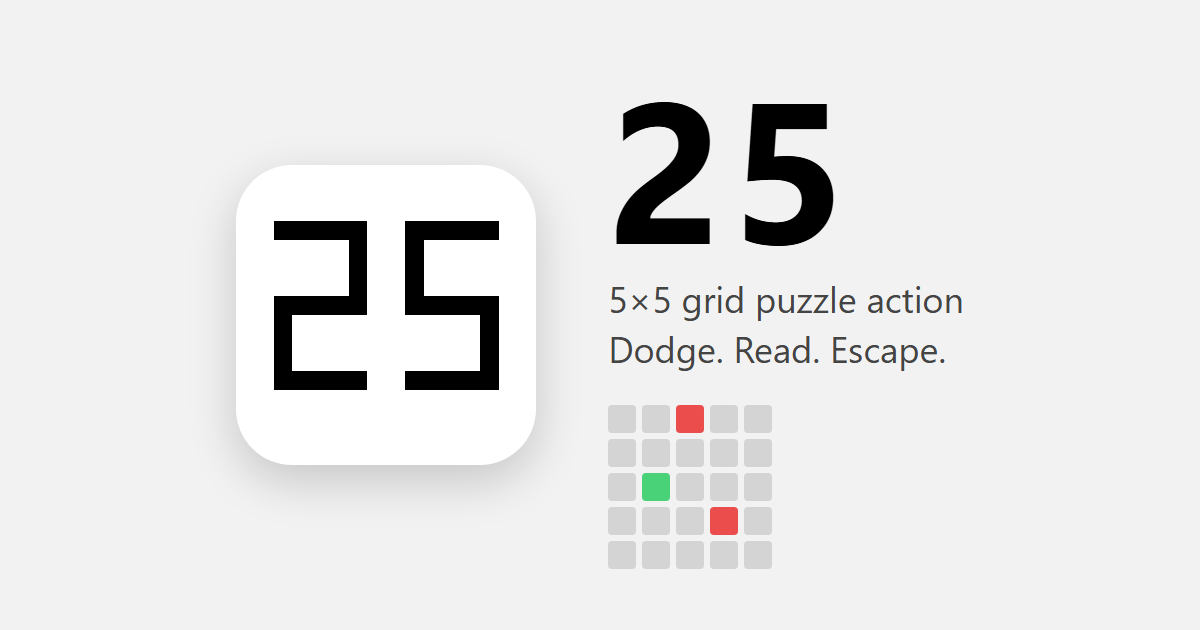
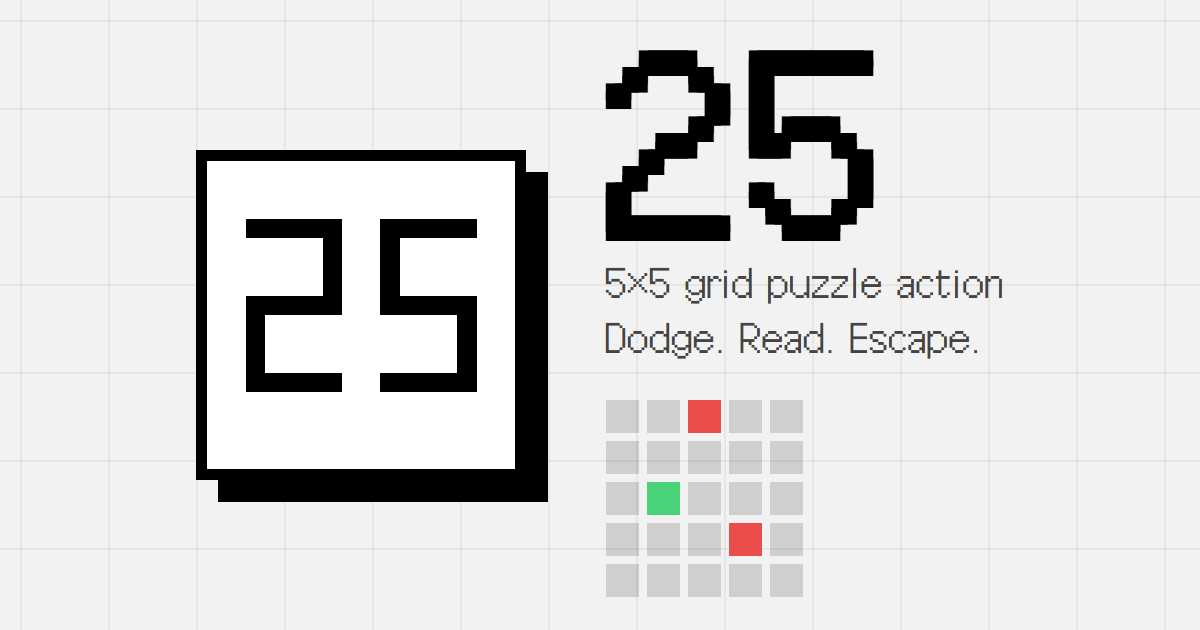
feat: 25 랜딩/OG 이미지에 Galmuri 픽셀 글꼴 및 픽셀 스타일 적용

diff --git a/25/index.html b/25/index.html
@@ -26,71 +26,91 @@
 <meta name="twitter:description" content="A tense 5x5 grid puzzle-action game. Dodge enemies, read the lasers and slip out of the grid.">
 <meta name="twitter:image" content="https://ybs1164.github.io/assets/25/og.png">
 
+<link rel="preload" href="/assets/25/fonts/Galmuri11-latin.woff" as="font" type="font/woff" crossorigin>
 <style>
+  /* Galmuri11 (SIL OFL), Latin subset. Pixel font: keep sizes at multiples of 11px
+     and never synthesize bold, or the pixels get smeared. */
+  @font-face {
+    font-family: "Galmuri11";
+    src: url("/assets/25/fonts/Galmuri11-latin.woff") format("woff");
+    font-display: swap;
+  }
   :root {
     color-scheme: light dark;
     --bg: #f2f2f2;
     --fg: #000;
     --muted: #555;
     --card: #fff;
-    --line: rgba(0, 0, 0, .12);
+    --line: #000;
     --btn-bg: #000;
     --btn-fg: #f2f2f2;
+    --shadow: #000;
+    --px: 4px;
   }
   @media (prefers-color-scheme: dark) {
     :root {
       --bg: #4d4d4d;
       --fg: #f2f2f2;
       --muted: #ccc;
-      --card: #5c5c5c;
-      --line: rgba(255, 255, 255, .18);
+      --card: #3a3a3a;
+      --line: #f2f2f2;
       --btn-bg: #f2f2f2;
       --btn-fg: #000;
+      --shadow: #1f1f1f;
     }
   }
   * { box-sizing: border-box; }
+  html { font-synthesis: none; -webkit-font-smoothing: none; }
   body {
     margin: 0; min-height: 100vh; padding: 24px 16px;
     display: flex; flex-direction: column; align-items: center; justify-content: center;
     background: var(--bg); color: var(--fg); text-align: center;
-    font-family: -apple-system, BlinkMacSystemFont, "Segoe UI", Roboto, sans-serif;
+    font-family: "Galmuri11", ui-monospace, monospace; font-size: 11px; font-weight: 400;
+    /* faint 5x5 pixel grid, echoing the game board */
+    background-image:
+      linear-gradient(var(--grid) 1px, transparent 1px),
+      linear-gradient(90deg, var(--grid) 1px, transparent 1px);
+    background-size: 44px 44px;
+    --grid: rgba(0, 0, 0, .05);
   }
-  main { width: 100%; max-width: 340px; display: flex; flex-direction: column; align-items: center; gap: 14px; }
+  @media (prefers-color-scheme: dark) { body { --grid: rgba(255, 255, 255, .05); } }
+  main { width: 100%; max-width: 352px; display: flex; flex-direction: column; align-items: center; gap: 16px; }
   .icon {
-    width: 112px; height: 112px; border-radius: 24px; background: #fff;
-    image-rendering: pixelated; box-shadow: 0 6px 24px rgba(0, 0, 0, .18);
-    animation: pop .5s ease-out both;
+    width: 132px; height: 132px; background: #fff; padding: 0;
+    image-rendering: pixelated; border: var(--px) solid var(--line);
+    box-shadow: 8px 8px 0 var(--shadow);
+    animation: pop .4s steps(4) both;
   }
-  h1 { margin: 6px 0 0; font-size: 56px; line-height: 1; letter-spacing: .04em; }
-  .tagline { margin: 0; font-size: 15px; line-height: 1.5; color: var(--muted); }
+  h1 { margin: 8px 0 0; font-size: 66px; line-height: 1; font-weight: 400; letter-spacing: 4px; text-shadow: 3px 0 0 currentColor, 0 3px 0 currentColor, 3px 3px 0 currentColor; }
+  .tagline { margin: 0; font-size: 11px; line-height: 22px; color: var(--muted); }
 
   .run {
-    display: none; width: 100%; padding: 14px 16px; border-radius: 14px;
-    background: var(--card); border: 1px solid var(--line); text-align: left;
-    animation: rise .45s .1s ease-out both;
+    display: none; width: 100%; padding: 14px 16px;
+    background: var(--card); border: var(--px) solid var(--line); box-shadow: 6px 6px 0 var(--shadow);
+    text-align: left; animation: rise .4s .1s steps(4) both;
   }
   .run.show { display: block; }
-  .run .label { margin: 0 0 8px; font-size: 12px; letter-spacing: .08em; text-transform: uppercase; color: var(--muted); }
-  .run .who { display: flex; align-items: center; gap: 10px; font-size: 18px; font-weight: 600; }
-  .run .dot { width: 20px; height: 20px; border-radius: 5px; border: 1px solid var(--line); flex: none; }
-  .run .meta { margin: 6px 0 0; font-size: 13px; color: var(--muted); line-height: 1.45; }
+  .run .label { margin: 0 0 8px; font-size: 11px; line-height: 11px; color: var(--muted); }
+  .run .who { display: flex; align-items: center; gap: 10px; font-size: 22px; line-height: 22px; }
+  .run .dot { width: 22px; height: 22px; border: 2px solid var(--line); flex: none; }
+  .run .meta { margin: 10px 0 0; font-size: 11px; line-height: 17px; color: var(--muted); }
 
-  .actions { width: 100%; display: flex; flex-direction: column; gap: 10px; margin-top: 4px; }
+  .actions { width: 100%; display: flex; flex-direction: column; gap: 14px; margin-top: 4px; }
   a.btn {
-    display: block; padding: 14px 20px; border-radius: 12px; font-size: 17px; font-weight: 600;
+    display: block; padding: 14px 20px; font-size: 22px; line-height: 22px;
     text-decoration: none; background: var(--btn-bg); color: var(--btn-fg);
-    border: 2px solid var(--btn-bg); transition: transform .12s ease, opacity .12s ease;
+    border: var(--px) solid var(--line); box-shadow: 6px 6px 0 var(--shadow);
   }
-  a.btn.alt { background: transparent; color: var(--fg); border-color: var(--fg); }
-  a.btn:hover { opacity: .88; }
-  a.btn:active { transform: scale(.97); }
-  a.btn:focus-visible { outline: 3px solid #4d9eeb; outline-offset: 2px; }
+  a.btn.alt { background: var(--bg); color: var(--fg); }
+  a.btn:hover { transform: translate(-2px, -2px); box-shadow: 8px 8px 0 var(--shadow); }
+  a.btn:active { transform: translate(6px, 6px); box-shadow: 0 0 0 var(--shadow); }
+  a.btn:focus-visible { outline: var(--px) dashed #4d9eeb; outline-offset: 4px; }
 
-  #hint { margin: 0; font-size: 13px; line-height: 1.5; color: var(--muted); }
-  footer { margin-top: 28px; font-size: 12px; color: var(--muted); }
+  #hint { margin: 0; font-size: 11px; line-height: 17px; color: var(--muted); }
+  footer { margin-top: 28px; font-size: 11px; color: var(--muted); }
   footer a { color: inherit; }
 
-  @keyframes pop { from { opacity: 0; transform: scale(.85); } to { opacity: 1; transform: none; } }
+  @keyframes pop { from { opacity: 0; transform: translateY(8px); } to { opacity: 1; transform: none; } }
   @keyframes rise { from { opacity: 0; transform: translateY(8px); } to { opacity: 1; transform: none; } }
   @media (prefers-reduced-motion: reduce) { * { animation: none !important; transition: none !important; } }
 </style>

diff --git a/scripts/og-25.html b/scripts/og-25.html
@@ -2,15 +2,17 @@
 <!-- Source for assets/25/og.png (1200x630). Regenerate with:
      msedge --headless --screenshot=assets/25/og.png --window-size=1200,630 file:///.../scripts/og-25.html -->
 <html><head><meta charset="utf-8"><style>
-  html, body { margin: 0; width: 1200px; height: 630px; overflow: hidden; }
-  body { background: #f2f2f2; color: #000; font-family: "Segoe UI", Roboto, sans-serif;
-         display: flex; align-items: center; justify-content: center; gap: 72px; }
-  .logo { width: 300px; height: 300px; image-rendering: pixelated; background: #fff; border-radius: 56px;
-          box-shadow: 0 16px 48px rgba(0,0,0,.18); }
-  h1 { margin: 0; font-size: 200px; line-height: 1; letter-spacing: .04em; }
-  p { margin: 12px 0 0; font-size: 36px; line-height: 1.4; color: #444; }
-  .grid { display: grid; grid-template-columns: repeat(5, 28px); gap: 6px; margin-top: 32px; }
-  .grid i { width: 28px; height: 28px; background: #000; opacity: .12; border-radius: 4px; }
+  @font-face { font-family: "Galmuri11"; src: url("../assets/25/fonts/Galmuri11-latin.woff") format("woff"); }
+  html, body { margin: 0; width: 1200px; height: 630px; overflow: hidden; font-synthesis: none; }
+  body { background: #f2f2f2; color: #000; font-family: "Galmuri11", monospace;
+         background-image: linear-gradient(rgba(0,0,0,.05) 2px, transparent 2px), linear-gradient(90deg, rgba(0,0,0,.05) 2px, transparent 2px);
+         background-size: 88px 88px; background-position: 20px 20px;
+         display: flex; align-items: center; justify-content: center; gap: 80px; }
+  .logo { width: 308px; height: 308px; image-rendering: pixelated; background: #fff; border: 11px solid #000; box-shadow: 22px 22px 0 #000; }
+  h1 { margin: 0; font-size: 198px; line-height: 1; font-weight: 400; letter-spacing: 11px; text-shadow: 9px 0 0 #000, 0 9px 0 #000, 9px 9px 0 #000; }
+  p { margin: 22px 0 0; font-size: 33px; line-height: 55px; color: #444; }
+  .grid { display: grid; grid-template-columns: repeat(5, 33px); gap: 8px; margin-top: 36px; }
+  .grid i { width: 33px; height: 33px; background: #000; opacity: .14; }
   .grid i.p { background: #4AD278; opacity: 1; } .grid i.e { background: #EB4D4D; opacity: 1; }
 </style></head><body>
 <img class="logo" src="../assets/25/icon-192.png">

diff --git a/docs/twofive-app-links.md b/docs/twofive-app-links.md
@@ -36,3 +36,5 @@ Host/path are also in `addons/DeepLink/deep_link_plugin.gd` and
   `CharacterManager` in the game - update it when characters are added.
 - Messengers cache previews. After changing `og.png`, refresh them with the
   Kakao link debugger / Facebook Sharing Debugger.
+
+- Font: Galmuri11 (SIL OFL) Latin subset at assets/25/fonts/Galmuri11-latin.woff. Keep sizes at multiples of 11px and avoid bold/rounded corners to stay crisp. Re-subset with: python -m fontTools.subset Galmuri11.ttf --unicodes=U+0020-007E,U+00B7,U+00D7,U+2013,U+2014,U+2019 --flavor=woff --output-file=...
